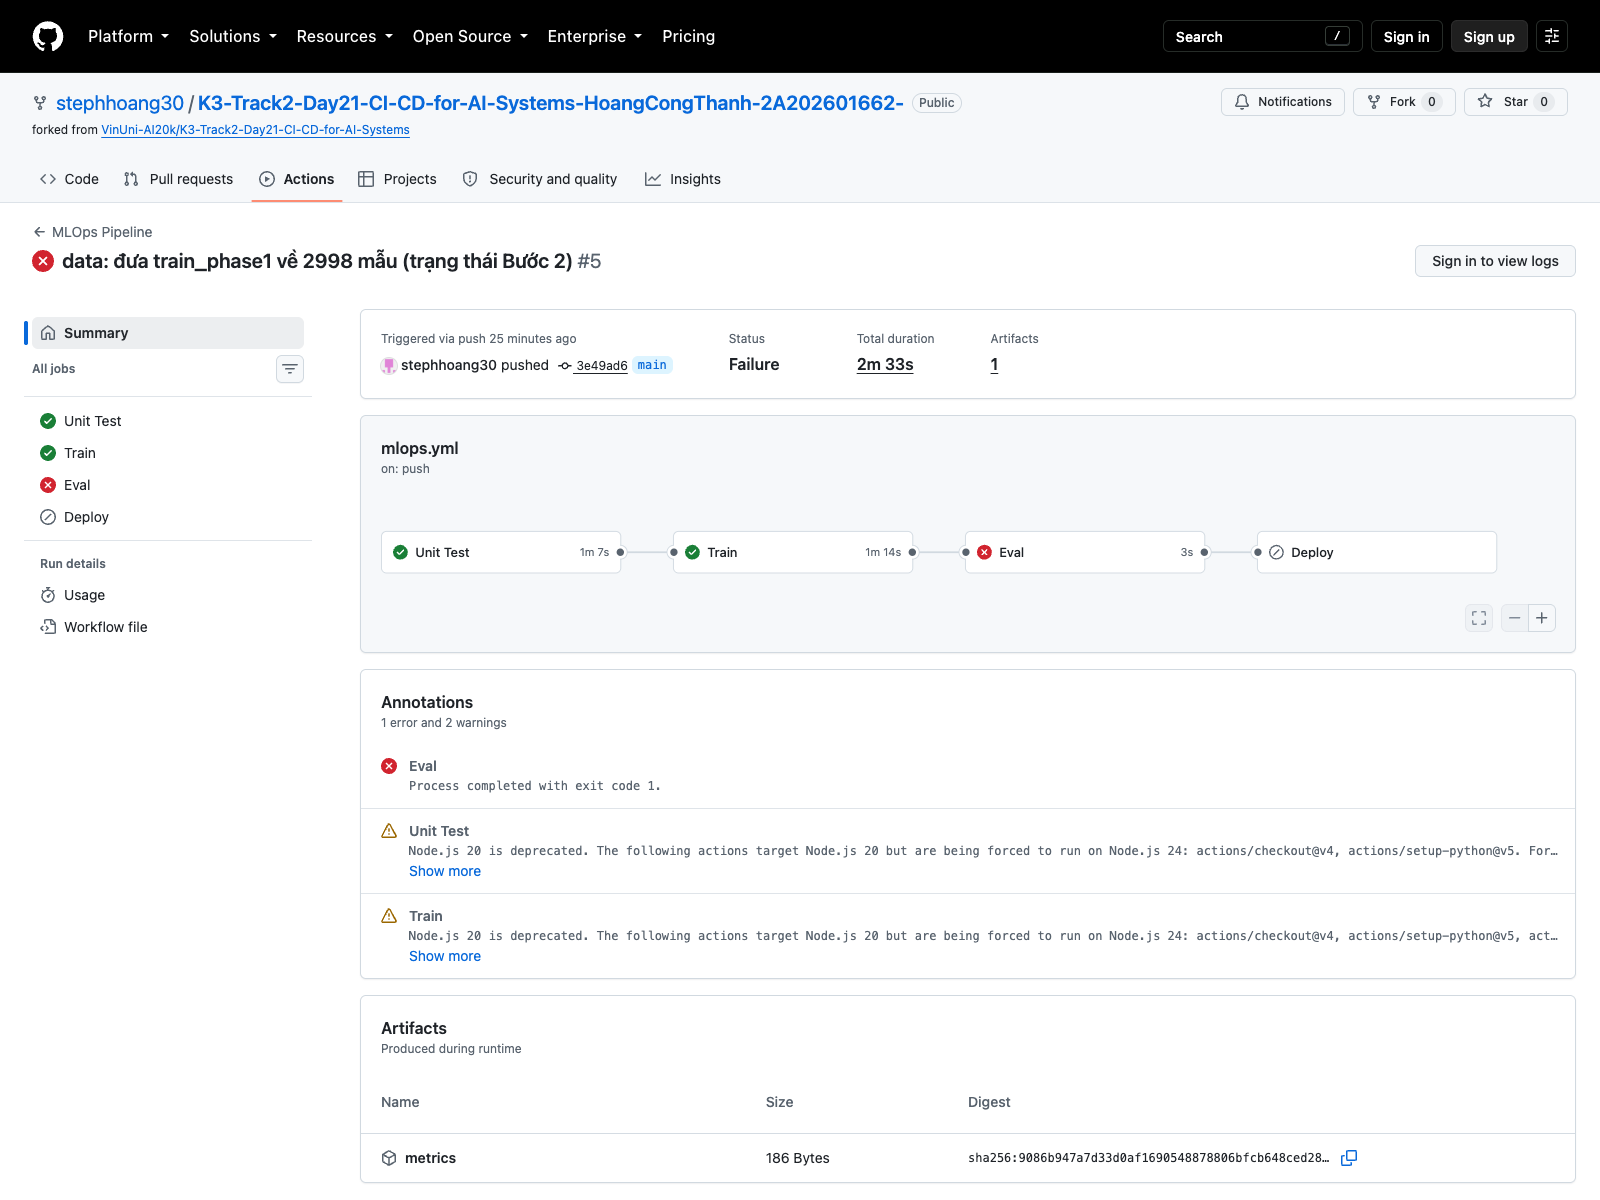
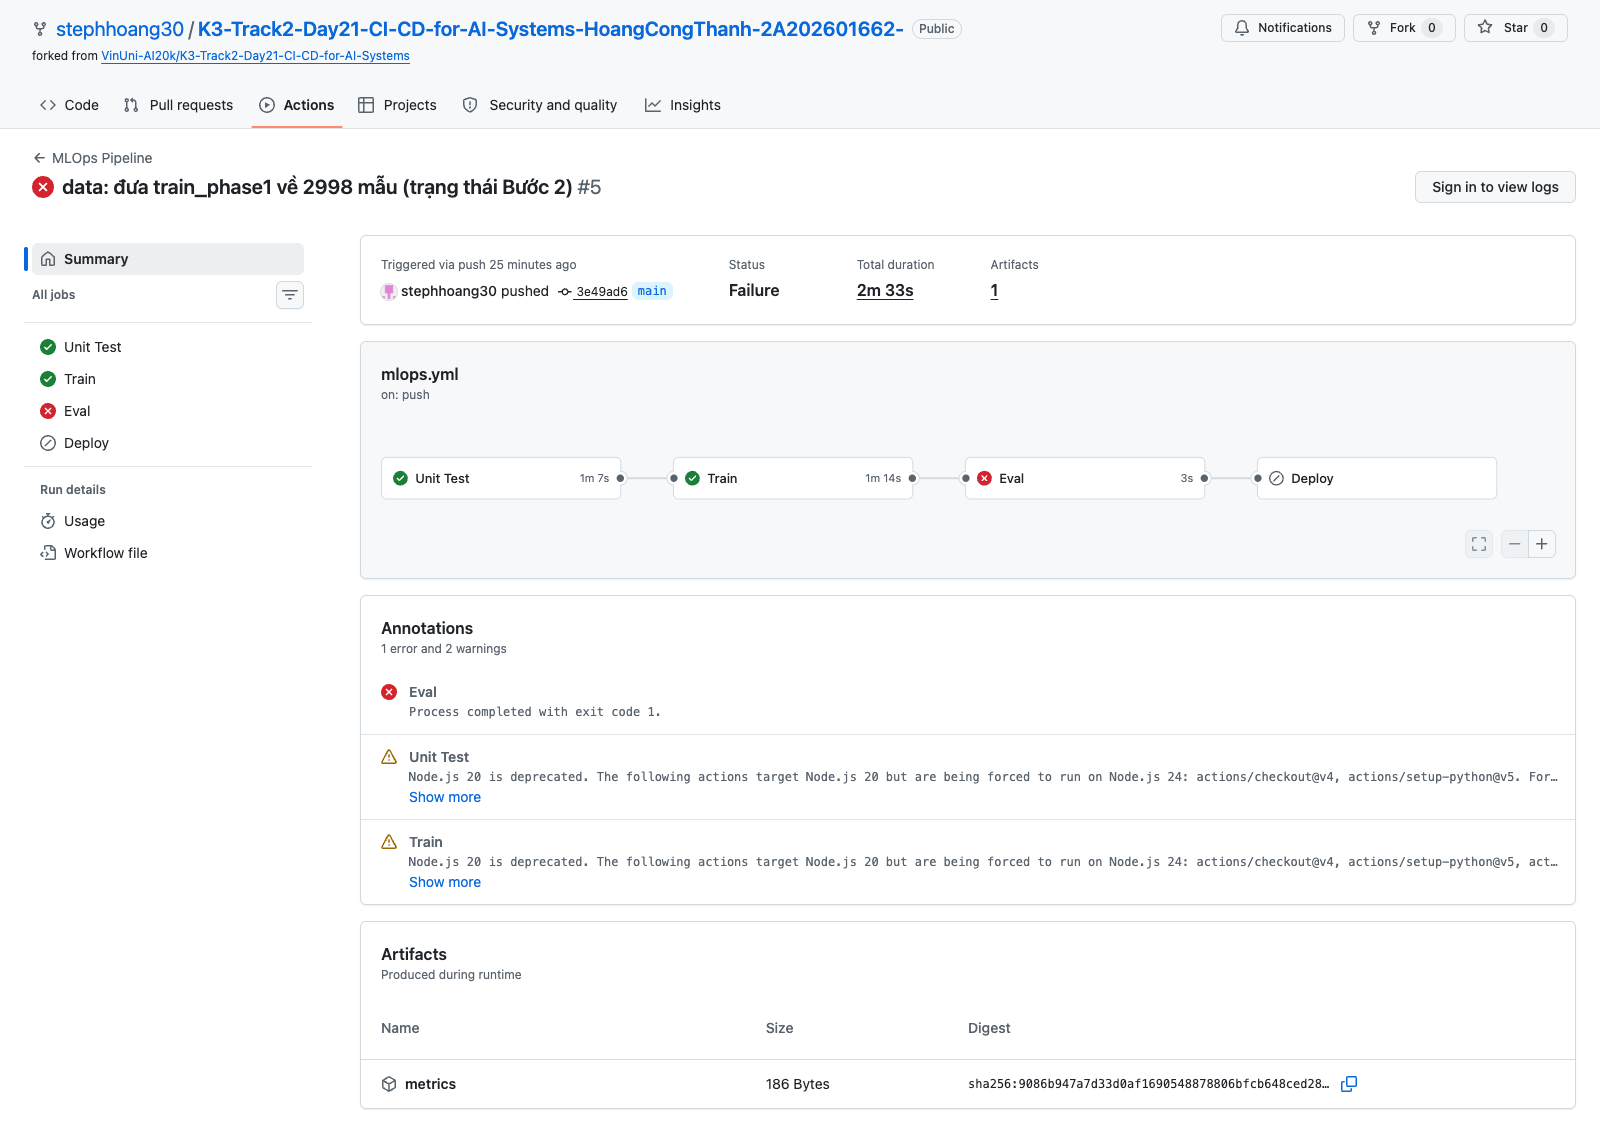
feat(bonus): thuật toán tùy chọn, báo cáo tự động, chống tụt hạng, cảnh báo lệch dữ liệu
Bonus 2 - src/train.py nhận model_type trong params.yaml, hỗ trợ
random_forest / gradient_boosting / logistic_regression. build_model()
lọc tham số theo đúng thuật toán nên đổi model_type không phải sửa lại
params.yaml. Kết quả 3 thuật toán trên 5996 mẫu: RF 0.7480,
GB 0.6420, LogReg 0.5260.

Bonus 3 - sinh outputs/report.txt gồm confusion matrix dạng bảng và
precision/recall/f1 từng lớp. Log làm MLflow artifact và upload kèm
metrics.json trong CI.

Bonus 5 - tính phân phối nhãn tập huấn luyện trước khi train, cảnh báo
nếu lớp nào dưới 10%, ghi vào outputs/metrics.json.

Bonus 4 - tách vòng đời model: Train đẩy lên models/candidate/ thay vì
ghi đè models/latest/. Eval thêm cổng thứ hai so accuracy mới với
metrics/latest.json của model đang phục vụ, chặn deploy nếu tụt hạng.
Deploy mới promote candidate lên latest rồi ghi lại metrics làm mốc cho
lần sau. Model kém không bao giờ nằm ở vị trí VM sẽ tải khi khởi động.

diff --git a/src/train.py b/src/train.py
@@ -5,10 +5,111 @@ import yaml
 import json
 import joblib
 import os
-from sklearn.ensemble import RandomForestClassifier
-from sklearn.metrics import accuracy_score, f1_score
+from sklearn.ensemble import RandomForestClassifier, GradientBoostingClassifier
+from sklearn.linear_model import LogisticRegression
+from sklearn.metrics import (
+    accuracy_score,
+    f1_score,
+    classification_report,
+    confusion_matrix,
+)
 
 EVAL_THRESHOLD = 0.70
+
+# Ty le toi thieu cua mot lop truoc khi coi la lech phan phoi (Bonus 5)
+MIN_CLASS_RATIO = 0.10
+
+# Cac thuat toan duoc ho tro qua tham so model_type trong params.yaml (Bonus 2)
+MODEL_REGISTRY = {
+    "random_forest": RandomForestClassifier,
+    "gradient_boosting": GradientBoostingClassifier,
+    "logistic_regression": LogisticRegression,
+}
+
+CLASS_LABELS = {0: "thap", 1: "trung_binh", 2: "cao"}
+
+
+def build_model(model_type: str, params: dict):
+    """
+    Khoi tao mo hinh theo model_type, chi truyen nhung tham so ma thuat toan do
+    thuc su chap nhan. Nho vay doi model_type khong can sua lai params.yaml.
+    """
+    if model_type not in MODEL_REGISTRY:
+        raise ValueError(
+            f"model_type '{model_type}' khong ho tro. "
+            f"Chon mot trong: {sorted(MODEL_REGISTRY)}"
+        )
+
+    cls = MODEL_REGISTRY[model_type]
+    accepted = cls().get_params().keys()
+
+    kwargs = {k: v for k, v in params.items() if k in accepted}
+    ignored = sorted(set(params) - set(kwargs))
+    if ignored:
+        print(f"Bo qua tham so khong hop le voi {model_type}: {ignored}")
+
+    if "random_state" in accepted:
+        kwargs.setdefault("random_state", 42)
+
+    return cls(**kwargs)
+
+
+def check_label_distribution(y) -> dict:
+    """
+    Tinh ty le tung nhan trong tap huan luyen va canh bao neu co lop qua hiem.
+
+    Lop qua hiem lam mo hinh gan nhu khong bao gio du doan ra lop do, trong khi
+    accuracy tong the van dep - nen phai canh bao truoc khi huan luyen (Bonus 5).
+    """
+    ratios = y.value_counts(normalize=True).sort_index()
+    dist = {str(k): round(float(v), 4) for k, v in ratios.items()}
+
+    print(f"Phan bo nhan tap huan luyen: {dist}")
+    for label, ratio in dist.items():
+        if ratio < MIN_CLASS_RATIO:
+            name = CLASS_LABELS.get(int(label), label)
+            print(
+                f"CANH BAO LECH DU LIEU: lop {label} ({name}) chi chiem "
+                f"{ratio:.2%}, duoi nguong {MIN_CLASS_RATIO:.0%}."
+            )
+    return dist
+
+
+def write_report(y_true, y_pred, params: dict, dist: dict) -> str:
+    """
+    Ghi bao cao hieu suat dang van ban: confusion matrix va precision/recall
+    cho tung lop (Bonus 3). File nay duoc upload lam artifact trong CI.
+    """
+    names = [CLASS_LABELS[c] for c in sorted(CLASS_LABELS)]
+    cm = confusion_matrix(y_true, y_pred, labels=sorted(CLASS_LABELS))
+
+    lines = ["BAO CAO HIEU SUAT MO HINH", "=" * 60, "", "Sieu tham so:"]
+    lines += [f"  {k}: {v}" for k, v in params.items()]
+    lines += ["", "Phan bo nhan tap huan luyen:"]
+    lines += [
+        f"  lop {k} ({CLASS_LABELS.get(int(k), k)}): {v:.2%}"
+        for k, v in dist.items()
+    ]
+
+    lines += ["", "Confusion matrix (hang = that, cot = du doan):", ""]
+    header = " " * 14 + "".join(f"{n:>14}" for n in names)
+    lines.append(header)
+    for name, row in zip(names, cm):
+        lines.append(f"{name:>14}" + "".join(f"{v:>14}" for v in row))
+
+    lines += ["", "Precision / recall / f1 tung lop:", ""]
+    lines.append(
+        classification_report(
+            y_true, y_pred, labels=sorted(CLASS_LABELS),
+            target_names=names, digits=4, zero_division=0,
+        )
+    )
+
+    os.makedirs("outputs", exist_ok=True)
+    report = "\n".join(lines)
+    with open("outputs/report.txt", "w") as f:
+        f.write(report)
+    return report
 
 
 def train(
@@ -20,13 +121,17 @@ def train(
     Huan luyen mo hinh va ghi nhan ket qua vao MLflow.
 
     Tham so:
-        params     : dict chua cac sieu tham so cho RandomForestClassifier.
+        params     : dict sieu tham so. Khoa model_type (tuy chon) chon thuat
+                     toan; cac khoa con lai la sieu tham so cua thuat toan do.
         data_path  : duong dan den file du lieu huan luyen.
         eval_path  : duong dan den file du lieu danh gia.
 
     Tra ve:
         accuracy (float): do chinh xac tren tap danh gia.
     """
+
+    params = dict(params)
+    model_type = params.pop("model_type", "random_forest")
 
     df_train = pd.read_csv(data_path)
     df_eval = pd.read_csv(eval_path)
@@ -36,11 +141,14 @@ def train(
     X_eval = df_eval.drop(columns=["target"])
     y_eval = df_eval["target"]
 
+    dist = check_label_distribution(y_train)
+
     with mlflow.start_run():
 
         mlflow.log_params(params)
+        mlflow.log_param("model_type", model_type)
 
-        model = RandomForestClassifier(**params, random_state=42)
+        model = build_model(model_type, params)
         model.fit(X_train, y_train)
 
         preds = model.predict(X_eval)
@@ -49,14 +157,28 @@ def train(
 
         mlflow.log_metric("accuracy", acc)
         mlflow.log_metric("f1_score", f1)
+        for label, ratio in dist.items():
+            mlflow.log_metric(f"train_ratio_class_{label}", ratio)
         mlflow.sklearn.log_model(model, "model")
 
-        print(f"Accuracy: {acc:.4f} | F1: {f1:.4f}")
+        print(f"Accuracy: {acc:.4f} | F1: {f1:.4f} | model_type: {model_type}")
+
+        report = write_report(y_eval, preds, {**params, "model_type": model_type}, dist)
+        mlflow.log_artifact("outputs/report.txt")
+        print()
+        print(report)
 
         # File nay duoc doc boi GitHub Actions o Buoc 2
-        os.makedirs("outputs", exist_ok=True)
         with open("outputs/metrics.json", "w") as f:
-            json.dump({"accuracy": acc, "f1_score": f1}, f)
+            json.dump(
+                {
+                    "accuracy": acc,
+                    "f1_score": f1,
+                    "model_type": model_type,
+                    "label_distribution": dist,
+                },
+                f,
+            )
 
         # File nay duoc upload len cloud storage o Buoc 2
         os.makedirs("models", exist_ok=True)
